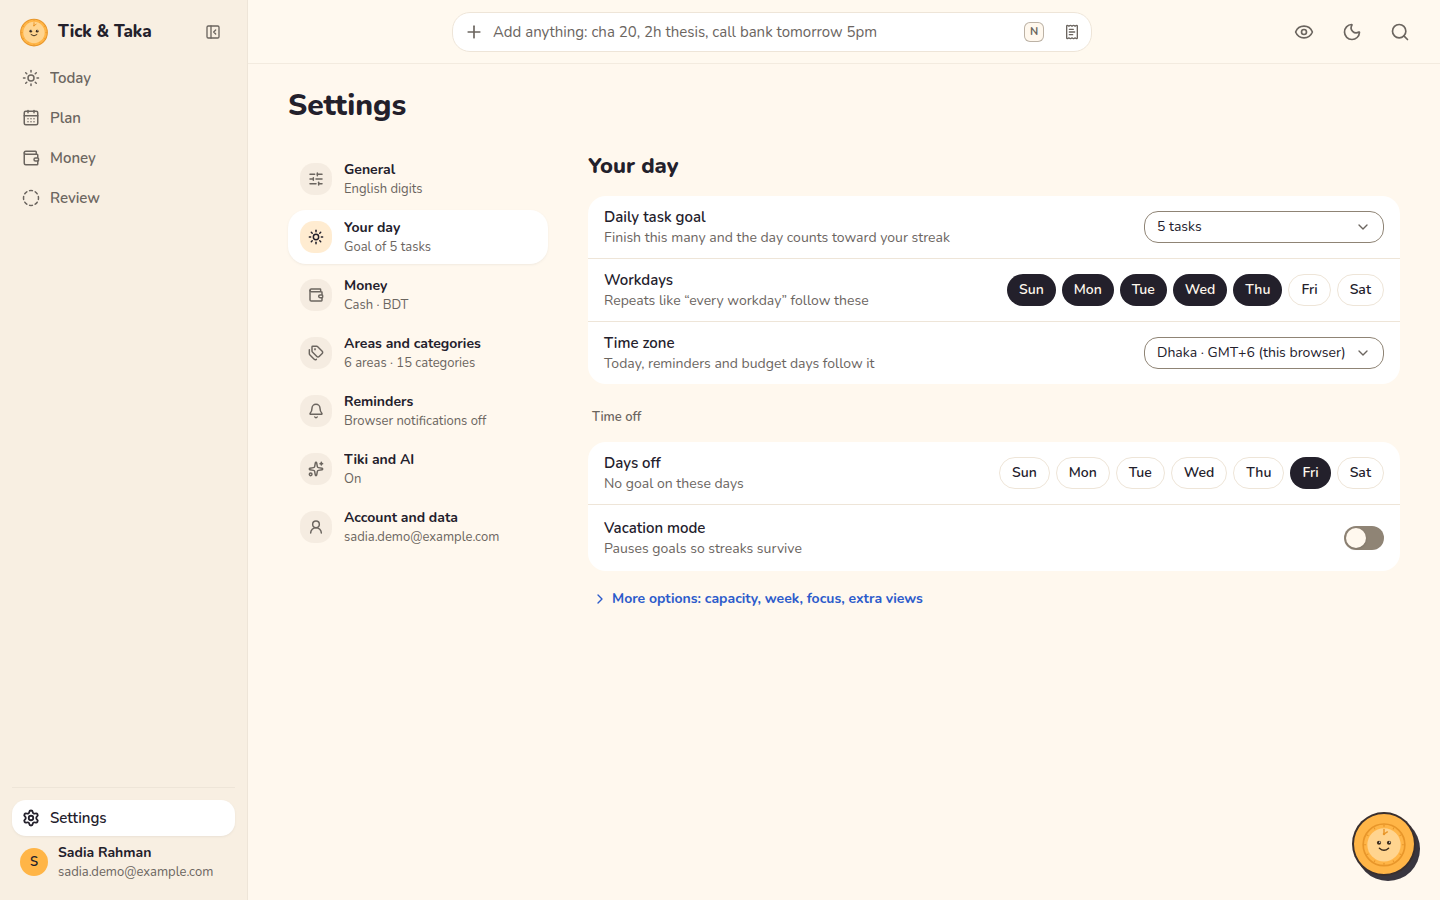
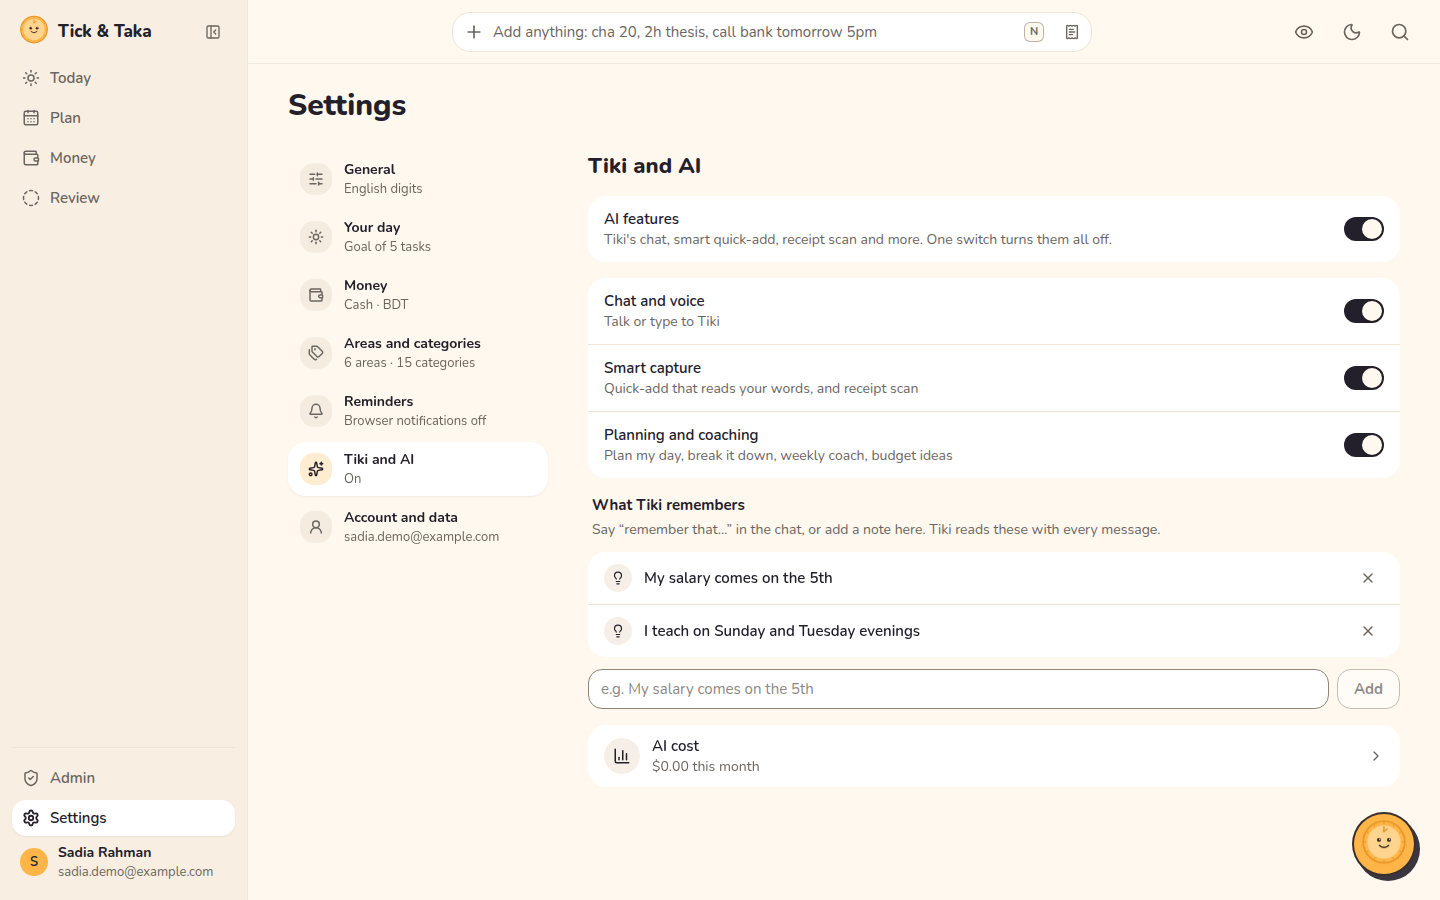
docs: fresh web screenshots and the audit plan's status
Today with the week's focus, Money, Settings with the three AI switches.

diff --git a/docs/product-audit/PLAN.md b/docs/product-audit/PLAN.md
@@ -35,7 +35,7 @@ Local test rig: demo API from source on `127.0.0.1:3000` (`/tmp/tt-demo/run-api.
 | 7   | **Quick-add**                            | R-05 pickers only when the parser is unsure                                                                                          | shared, web, phone                    | Medium                                  |
 | 8   | **Server fixes**                         | R-21 receipt cleanup, R-22 goal task in the job, R-25 "last used" per feature in Admin                                               | API, web admin                        | Low                                     |
 | 9   | **Reminders**                            | R-20 30-day horizon, background refresh, permission in context                                                                       | phone (native module)                 | Medium                                  |
-| 10  | **Docs and deploy**                      | README and privacy page, deploy API + web, live checks (no APK this round)                               | all                                   | Low                                     |
+| 10  | **Docs and deploy**                      | README and privacy page, deploy API + web, live checks (no APK this round)                                                           | all                                   | Low                                     |
 
 ### Phase 1 — Clear out
 
@@ -102,3 +102,13 @@ Local test rig: demo API from source on `127.0.0.1:3000` (`/tmp/tt-demo/run-api.
 - README (features, screenshots of changed web views), privacy page wording, `docs/product-audit/REPORT.md` status column.
 - Deploy: push `main`, `deploy/update-tick-bipulhf.sh` on the server (migrations run on first open), check `/`, `/app/`, API health, sign-in page.
 - No APK this round (owner, 1 Nov 2026). The phone changes wait for the next build, with the device checks each phase listed. The API keeps old 1.2.0 phones working (derived `daysOff`, monthly review fields, `users` in AI usage).
+
+## Status (1 Nov 2026)
+
+| Phase | State                                                                        |
+| ----- | ---------------------------------------------------------------------------- |
+| 1–8   | Done and committed; API and web deployed                                     |
+| 9     | Done in code (phone reminders); waits for the next APK and its device checks |
+| 10    | README screenshots refreshed; API and web deployed; no APK this round        |
+
+Every recommendation R-01 to R-25 is in code. Phone-side changes reach users with the next APK; the API keeps 1.2.0 phones working until then.

diff --git a/README.md b/README.md
@@ -431,7 +431,7 @@ typing its email), and make sign-ups invite-only with a list of invited emails.
 |                                      **Money**                                       |                                   **Reports**                                   |
 |       <img src="docs/screenshots/web-money.png" width="420" alt="Money overview" />        |    <img src="docs/screenshots/web-reports.png" width="420" alt="Reports" />     |
 |                                     **Settings**                                     |                                   **Sign in**                                   |
-|  <img src="docs/screenshots/web-settings.png" width="420" alt="Settings, one section at a time" />  |  <img src="docs/screenshots/web-login.png" width="420" alt="Sign-in page" />  |
+|  <img src="docs/screenshots/web-settings.png" width="420" alt="Settings, Tiki and AI with three switches" />  |  <img src="docs/screenshots/web-login.png" width="420" alt="Sign-in page" />  |
 
 <p align="center">
   <img src="docs/screenshots/web-home.png" width="640" alt="The public home page" />
